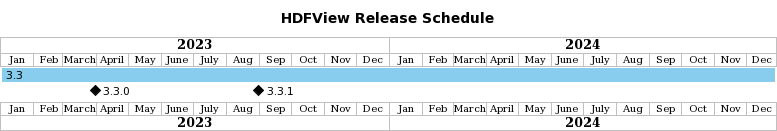
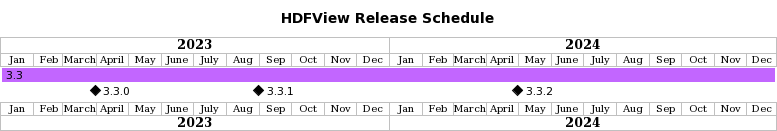
Add HDFView 3.3.2 to the release schedule (#155)

Changed region(s): [[0.0, 0.5191, 1.0, 0.7328]]

diff --git a/README.md b/README.md
@@ -16,7 +16,6 @@ Information regarding Help Desk and Support services is available at
    https://portal.hdfgroup.org/display/support/The+HDF+Help+Desk
 
 
-
 FORUM and NEWS
 --------------
 The [HDF Forum](https://forum.hdfgroup.org) is provided for public announcements and discussions
@@ -49,6 +48,7 @@ of HDF5 and HDF4. Previous releases of HDFView that were based on HDF5 1.8,
 | ------- | ---- | ---- | ------------ |
 | 3.3.0 | 1.14.0 | 4.2.16 | Supports HDF5 1.12 references, Single-Writer/Multiple-Readers (SWMR) reads, bug fixes |
 | 3.3.1 | 1.14.2 | 4.2.16-2 | Fixes a critical HDF4 + HDFView bug |
+| 3.3.2 | 1.14.4 | 4.3.0 | Maintenance release |
 
 
 PREVIOUS RELEASES AND SOURCE CODE
